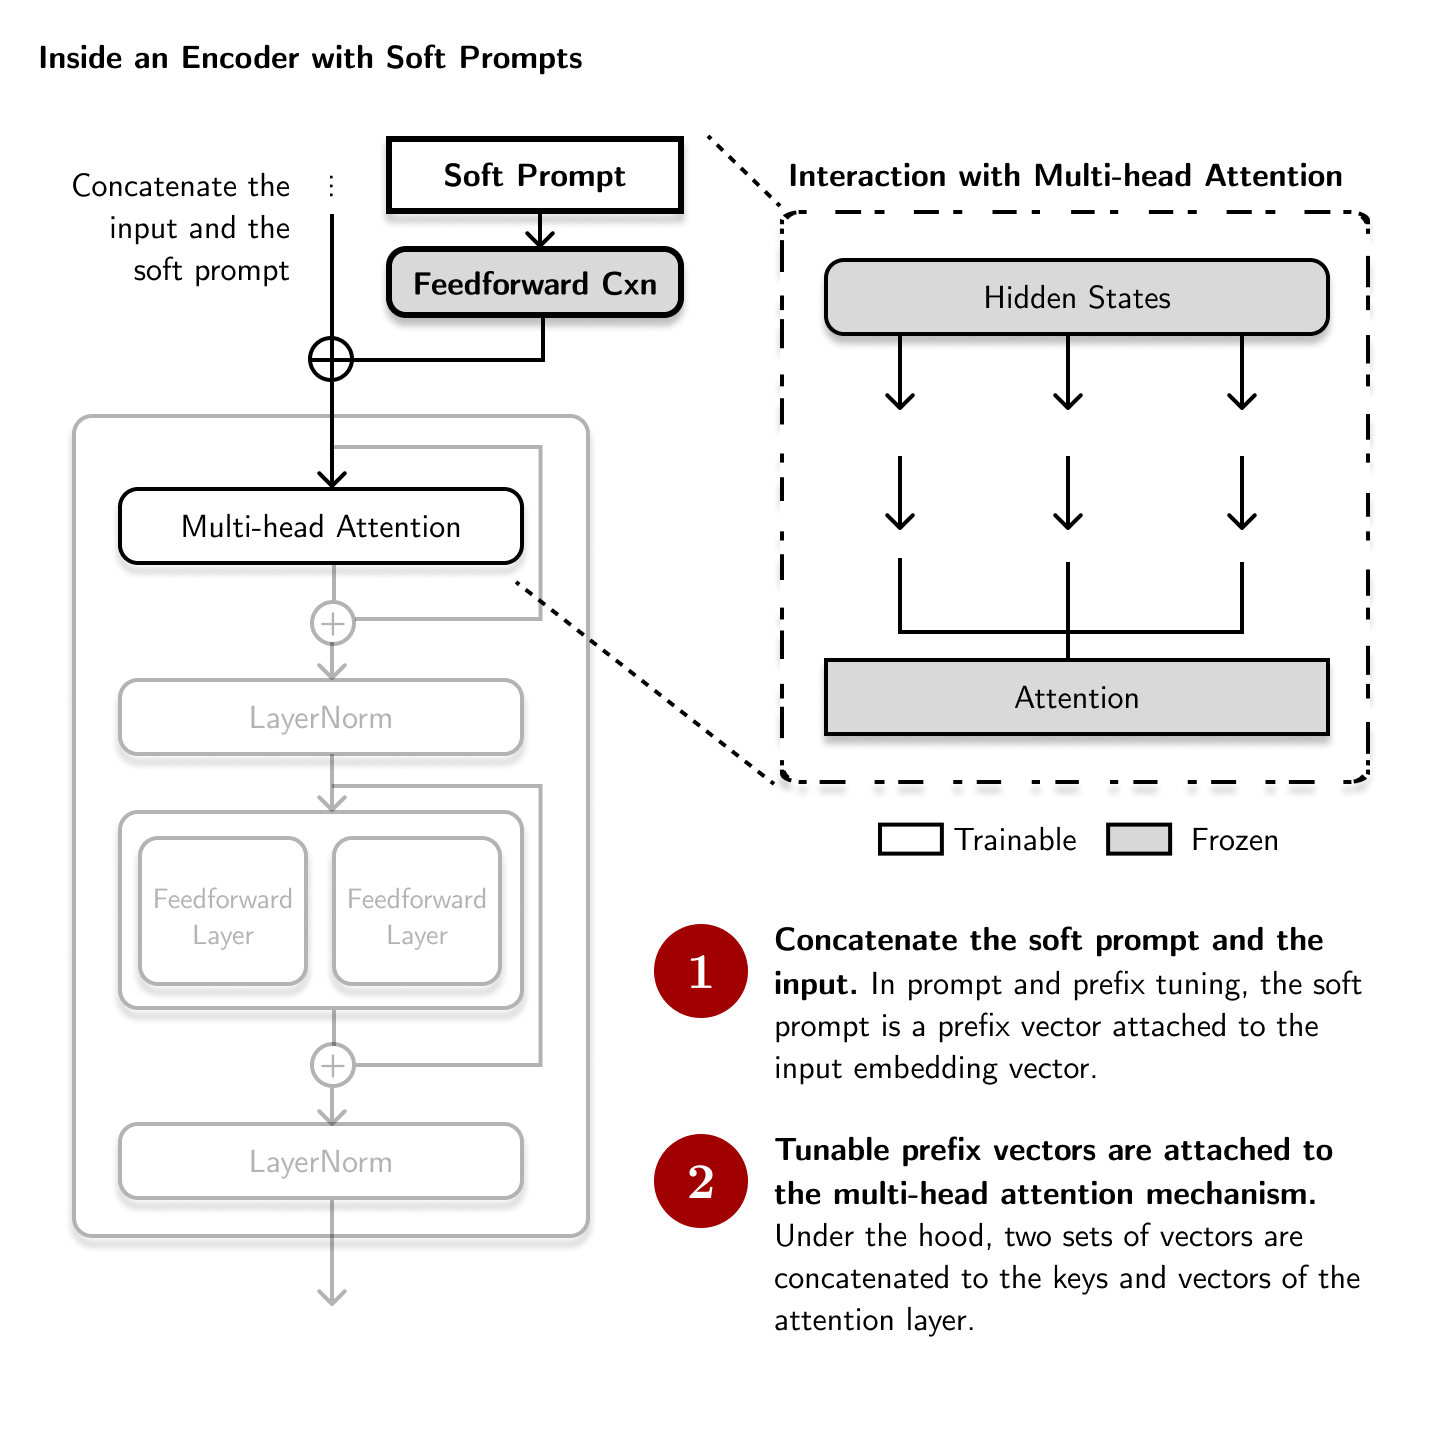
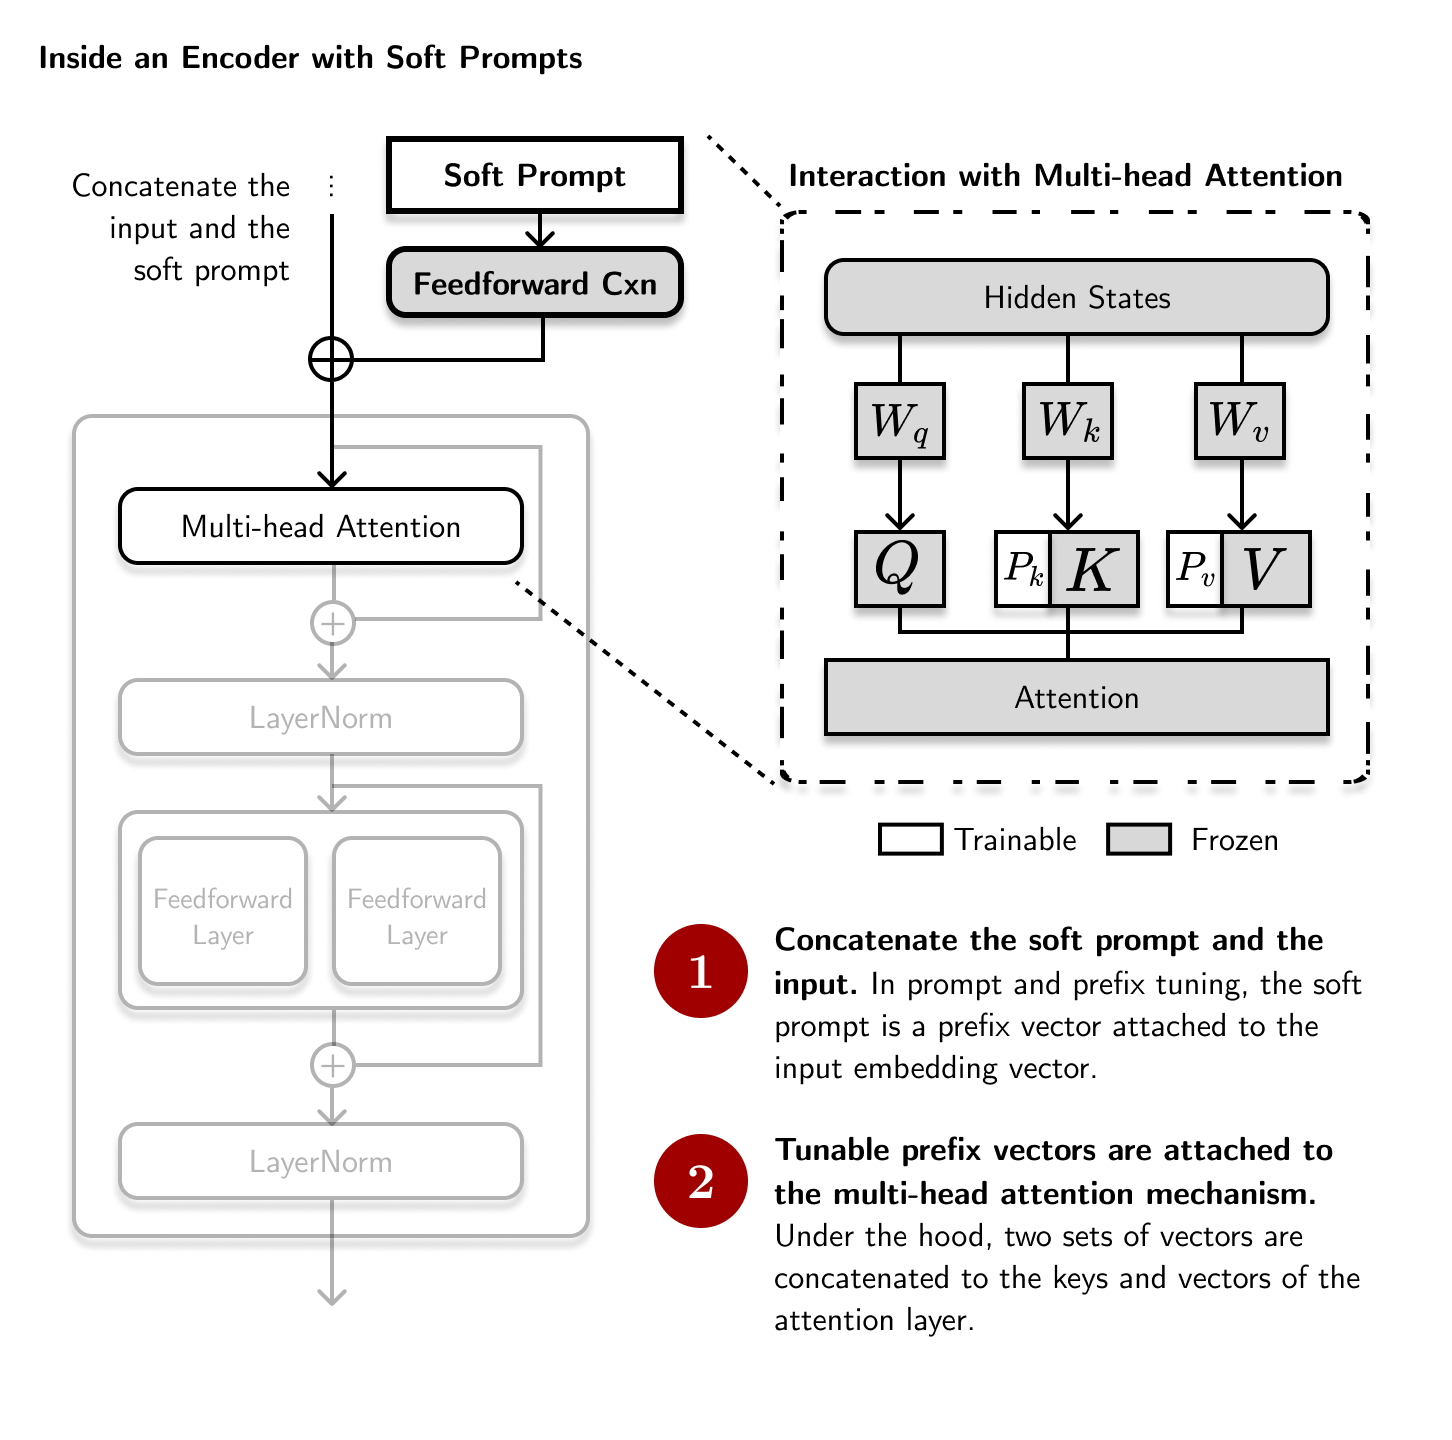
[wip] Update

Changed region(s): [[0.6818, 0.25, 0.9298, 0.4375], [0.5888, 0.25, 0.6508, 0.4375]]

diff --git a/notebook/_posts/2023-05-15-peft.md b/notebook/_posts/2023-05-15-peft.md
@@ -162,7 +162,7 @@ modular deep learning.
 The idea is to attach a small feedforward network *after* each transformer
 sub-layer and tune it while keeping the larger network frozen: 
 
-![](/assets/png/peft/encoder_with_adapter_houlsby.png){:width="500px"}  
+![](/assets/png/peft/encoder_with_adapter_houlsby.png){:width="600px"}  
 {:style="text-align: center;"}
 
 ```python
@@ -299,12 +299,28 @@ pretrained LM frozen. These two ideas appeared at the same time ([Lester et al,
 mechanisms. The only difference is that prompt tuning adds the tensor only at
 the input while prefix tuning adds the tensor at each transformer layer:
 
-![](/assets/png/peft/encoder_with_prefix_tuning.png){:width="500px"}  
+![](/assets/png/peft/encoder_with_prefix_tuning.png){:width="600px"}  
 {:style="text-align: center;"}
 
+```python
+# Pseudocode of a typical encoder layer with soft prompts
+class EncoderWithSoftPrompts:
+    def __call__(self, x: Tensor, soft_prompt: Tensor) -> Tensor:
+        soft_prompt = FeedForwardLayer(soft_prompt)
+        x = concatenate([soft_prompt, x])
+        residual = x
+        x = MultiHeadAttention(x)
+        x = LayerNorm(x + residual)
+        residual = x
+        x = FeedForwardLayers(x)
+        x = LayerNorm(x + residual)
+        return x
 ```
 
-```
+
+
+
+One of the most popular implementations of p
 
 
 <!-- insert figure: https://lightning.ai/pages/community/article/understanding-llama-adapters/ -->
